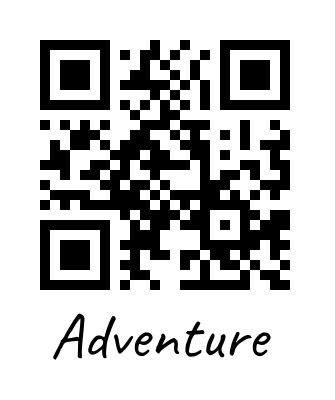
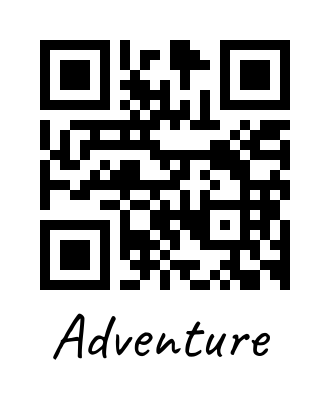
Added tsq

diff --git a/templates/tsq.html b/templates/tsq.html
@@ -1,0 +1,28 @@
+<!DOCTYPE html>
+<html>
+<head>
+  <link rel="preconnect" href="https://fonts.gstatic.com" crossorigin>
+  <link href="https://fonts.googleapis.com/css2?family=Aguafina+Script&family=Luxurious+Script&display=swap" rel="stylesheet">
+    
+  <title>Treasure Hunt</title>
+  <meta name="viewport" content="width=device-width, initial-scale=1.0">
+  <link type="text/css" rel="stylesheet" href="static/styles.css" />
+
+</head>
+<body>
+  <div class="container">
+    <h1>How did you find me?</h1>
+
+    <div class="input-wrapper">
+      <input type="text" id="codeInput" placeholder="Enter your answer">
+    </div>
+    <input type="hidden" id="answer" value="Ceasar">
+    <input type="hidden" id="destination" value="tsq_clue1565476132">
+    <div class="input-wrapper">
+      <button onclick="checkCode()">Guess</button>
+    </div>
+  </div>
+
+  <script src="static/script.js"></script>
+</body>
+</html>

diff --git a/templates/tsq_clue1565476132.html b/templates/tsq_clue1565476132.html
@@ -1,0 +1,24 @@
+<!DOCTYPE html>
+<html>
+<head>
+  <link rel="preconnect" href="https://fonts.gstatic.com" crossorigin>
+  <link href="https://fonts.googleapis.com/css2?family=Aguafina+Script&family=Luxurious+Script&display=swap" rel="stylesheet">
+
+  <title>Treasure Hunt</title>
+  <meta name="viewport" content="width=device-width, initial-scale=1.0">
+  <link type="text/css" rel="stylesheet" href="static/styles.css" />
+
+</head>
+<body>
+  <div class="container">
+    <h1>Your fifth clue:</h1>
+    <h2>Drgsrm z ofhs zmw hkizdormt hkzxv,</h2>
+    <h2>Z ozmwnzip hgzmwh drgs tizxv.</h2>
+    <h2>Gsv giryfgv gl gsv yziw lu low,</h2>
+    <h2>Dsviv hglirvh zmw xszizxgvih fmulow.</h2>
+    <h2>Znrwhg gsv tivvm zmw gizmjfro kozxv,</h2>
+    <h2>Hvvp z orgvizib vnyizxv.</h2>
+  </div>
+
+</body>
+</html>

diff --git a/qr_gen.py b/qr_gen.py
@@ -1,20 +1,22 @@
 import requests
 from io import BytesIO
+import os
 import qrcode
 from PIL import Image, ImageDraw, ImageDraw2, ImageFont
 
 # Get the fonts 
 # req = requests.get("https://github.com/googlefonts/zen-antique/blob/main/fonts/ttf/ZenAntique-Regular.ttf?raw=true")
 # font = ImageFont.truetype(BytesIO(req.content), 72,)
-font = ImageFont.truetype("Caveat\Caveat-VariableFont_wght.ttf", 64)
+font = ImageFont.truetype("Caveat/Caveat-VariableFont_wght.ttf", 64)
 
-ip = 'http://173.71.158.88:5000'
-f = open('site_list.txt')
+ip = 'http://96.238.84.92:5000'
 
-
-lines = f.readlines()
-for line in lines:
-    line = line.strip()
+files = os.listdir('templates')
+    
+for line in files:
+    line = os.path.splitext(line)[0]
+    if len(line) > 3:
+        continue
     img = qrcode.make(ip + '/' + line)
     im1 = Image.new('RGB',
                  (335, 400),   # A4 at 72dpi
